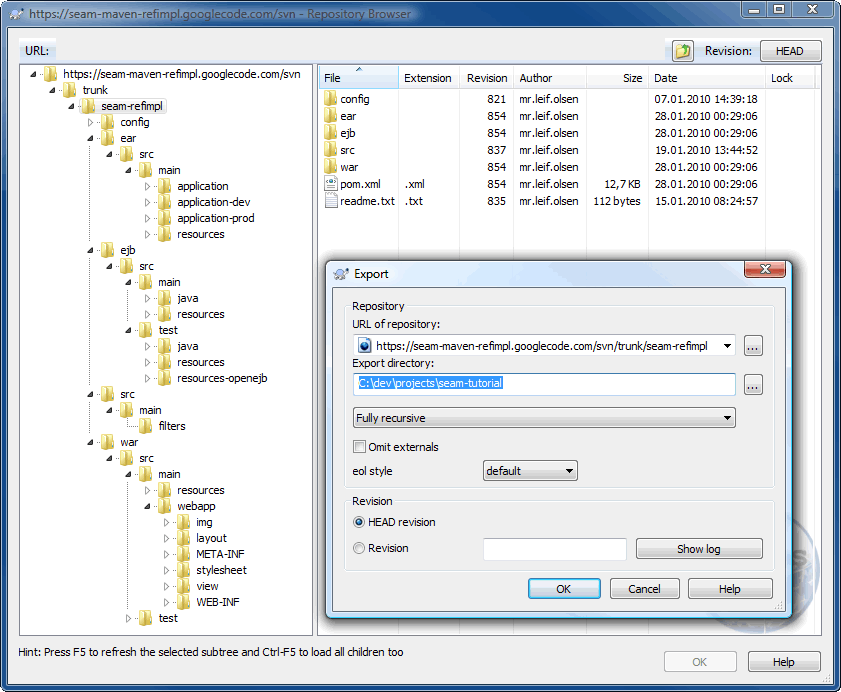
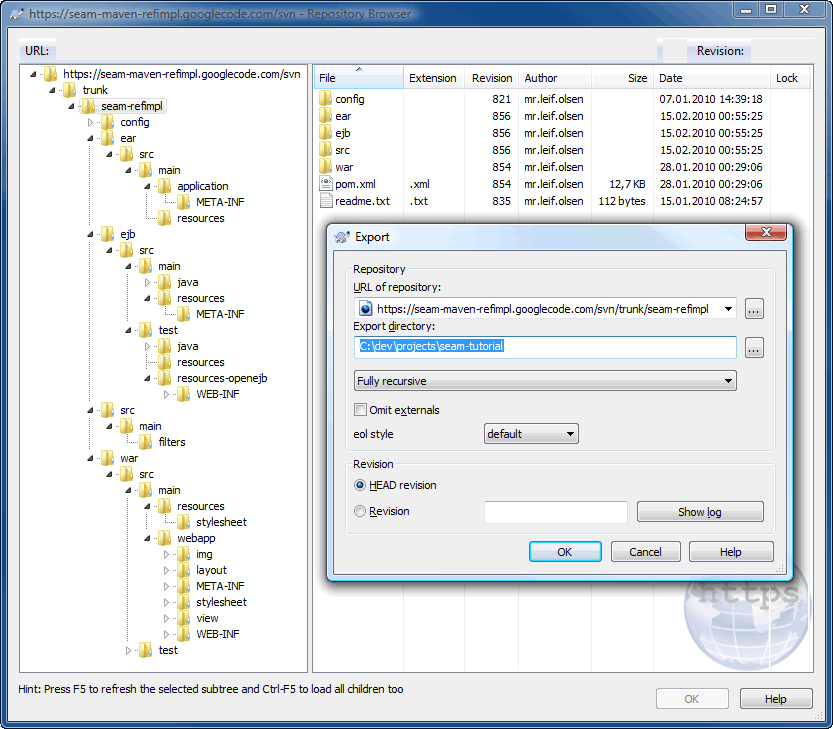
Updating tutorial - in progress...

Changed region(s): [[0.0, 0.0, 0.9988, 1.0], [0.5618, 0.6676, 0.7179, 0.698]]

diff --git a/doc/tutorial/01-gettingstarted.html b/doc/tutorial/01-gettingstarted.html
@@ -190,6 +190,11 @@ running on a JBoss Application Server (JBoss-4.2.3.AS or Jboss-5.1.x.AS).</p>
   Use the <code>seam-refimpl</code> Project as a Template for Your Own Project</a>
 </h2>
 <div id="export-template">
+<p>The Seam Refimpl project is a standard Maven multimodule project for Seam using EJB and JSF 
+that is archived in an ear-archive. A parent project pom will manage the EAR, EJB and WAR 
+modules.</p>
+
+<h3>Export from svn</h3>
 <p>This section explains how to use the <strong>seam-refimpl</strong> project as a template for your
 own project.</p>
 
@@ -211,19 +216,29 @@ own project.</p>
     </ul>
     <img src="img/tortoise-export.png" style="width:800px; display:block; margin-top:1em; margin-bottom:1em;" />
   </li>
-  <li><a name="modfy-the-poms">Modify the poms:</a>
+  <li><a name="modfy-the-poms">Modify the poms by changing text emphasized in <font color="blue">blue</font>:</a>
     <ul>
     <li>
     The parent pom:
     <pre>
 &lt;project
-  .
-  &lt;groupId&gt;<font color="blue">no.company.seam</font>&lt;/groupId&gt;
+  xmlns=&quot;http://maven.apache.org/POM/4.0.0&quot;
+  xmlns:xsi=&quot;http://www.w3.org/2001/XMLSchema-instance&quot;
+  xsi:schemaLocation=&quot;http://maven.apache.org/POM/4.0.0 http://maven.apache.org/maven-v4_0_0.xsd&quot;&gt;
+
+  &lt;modelVersion&gt;4.0.0&lt;/modelVersion&gt;
+  &lt;parent&gt;
+    &lt;groupId&gt;no.knowit.seam&lt;/groupId&gt;
+    &lt;artifactId&gt;root&lt;/artifactId&gt;
+    &lt;version&gt;2.2.0-SNAPSHOT&lt;/version&gt;
+  &lt;/parent&gt;
+  
+  &lt;groupId&gt;<font color="blue">com.company.seam</font>&lt;/groupId&gt;
   &lt;artifactId&gt;<font color="blue">seam-tutorial</font>&lt;/artifactId&gt;
   &lt;version&gt;<font color="blue">0.1-SNAPSHOT</font>&lt;/version&gt;
   &lt;name&gt;${project.artifactId} : ${project.version}&lt;/name&gt;
   &lt;description&gt;<font color="blue">The Seam Tutorial parent pom</font>&lt;/description&gt;
-  &lt;packaging&gt;pom&amp;lt;/packaging&gt;
+  &lt;packaging&gt;pom&lt;/packaging&gt;
   &lt;modules&gt;
     &lt;module&gt;ejb&lt;/module&gt;
     &lt;module&gt;war&lt;/module&gt;
@@ -235,8 +250,8 @@ own project.</p>
     &lt;app.display.name&gt;<font color="blue">Seam Tutorial</font>&lt;/app.display.name&gt;
     &lt;app.description&gt;<font color="blue">The Seam Tutorial uses seam-refimpl as a project template</font>&lt;/app.description&gt;
     &lt;app.distributable&gt;false&lt;/app.distributable&gt;
-    &lt;app.jndi.pattern&gt;${app.context}-ear/#{ejbName}/local&lt;/app.jndi.pattern&gt;
-    &lt;app.jndi.pattern.test&gt;/#{ejbName}/Local&lt;/app.jndi.pattern.test&gt;
+    &lt;app.jndi.pattern&gt;${app.context}-ear/#{ejbName}/local&lt;/app.jndi.pattern&gt; &lt;!-- JBoss JNDI Pattern --&gt;
+    &lt;app.jndi.pattern.test&gt;/#{ejbName}/Local&lt;/app.jndi.pattern.test&gt;         &lt;!-- OpenEJB JNDI Pattern --&gt;
     &lt;!-- 
       Properties for production are located in src/main/filters/filter-prod.properties
       Properties to be modified by developer are located in src/main/filters/filter-dev.properties
@@ -254,7 +269,7 @@ own project.</p>
 &lt;project
   .
   &lt;parent&gt;
-    &lt;groupId&gt;<font color="blue">no.company.seam</font>&lt;/groupId&gt;
+    &lt;groupId&gt;<font color="blue">com.company.seam</font>&lt;/groupId&gt;
     &lt;artifactId&gt;<font color="blue">seam-tutorial</font>&lt;/artifactId&gt;
     &lt;version&gt;<font color="blue">0.1-SNAPSHOT</font>&lt;/version&gt;
     &lt;relativePath&gt;../pom.xml&lt;/relativePath&gt;
@@ -274,7 +289,7 @@ own project.</p>
 &lt;project
   .
   &lt;parent&gt;
-    &lt;groupId&gt;<font color="blue">no.company.seam</font>&lt;/groupId&gt;
+    &lt;groupId&gt;<font color="blue">com.company.seam</font>&lt;/groupId&gt;
     &lt;artifactId&gt;<font color="blue">seam-tutorial</font>&lt;/artifactId&gt;
     &lt;version&gt;<font color="blue">0.1-SNAPSHOT</font>&lt;/version&gt;
     &lt;relativePath&gt;../pom.xml&lt;/relativePath&gt;
@@ -294,7 +309,7 @@ own project.</p>
 &lt;project
   .
   &lt;parent&gt;
-    &lt;groupId&gt;<font color="blue">no.company.seam</font>&lt;/groupId&gt;
+    &lt;groupId&gt;<font color="blue">com.company.seam</font>&lt;/groupId&gt;
     &lt;artifactId&gt;<font color="blue">seam-tutorial</font>&lt;/artifactId&gt;
     &lt;version&gt;<font color="blue">0.1-SNAPSHOT</font>&lt;/version&gt;
     &lt;relativePath&gt;../pom.xml&lt;/relativePath&gt;
@@ -311,14 +326,79 @@ own project.</p>
     </ul>
   </li>
   <li>
-    Rename the datasource file <code>ear/src/main/resources/seam-refimpl-ds.xml</code> 
-    to <code>seam-tutorial-ds.xml</code><br/>
-    Tip: Modify the	<code>&lt;app.ds.xml&gt;${app.context}-ds.xml&lt;/app.ds.xml&gt;</code> property
-    if you want to give the datasource file a different name.
+    Rename the datasource file <code>${SEAM_TUTORIAL}/ear/src/main/resources/seam-refimpl-ds.xml</code> 
+    to <code>seam-tutorial-rename-ds.xml</code> (by default the datasource file name starts with the project
+    artifact id).
+    <img src="img/seam-tutorial-rename-ds-xml.png" style="width:400px; display:block; margin-top:1em; margin-bottom:1em;" />
   </li>
   <li>
-    <a href="#install-and-run">Deploy the project "out of the box" to verify that everyting works</a>
+    Run <code>mvn clean install</code> to verify that the project builds.
+    <img src="img/seam-tutorial-clean-install-success.png" style="width:700px; display:block; margin-top:1em; margin-bottom:1em;" />
   </li>
+  </ol>
+
+  <h3>Switch to development profile</h3>
+  <ol>
+  <li>
+<pre>
+This is how you switch to dev mode:
+* Copy the src/main/filters/filter-prod.properties to filter-dev.properties and add the filter-dev.properties file to svn:ignore.
+* Open the filter-dev.properties file and modify property values as needed.
+* The env-prod profile is active by default, so you must open each POM 
+  in the project and set the env-dev profile to active by default.
+* In each pom locate:
+&lt;profile&gt;
+  &lt;id&gt;env-dev&lt;/id&gt;
+  &lt;activation&gt;
+    &lt;property&gt;
+      &lt;name&gt;env&lt;/name&gt;
+      &lt;value&gt;dev&lt;/value&gt;
+    &lt;/property&gt;
+  &lt;/activation&gt;
+  &lt;properties&gt;
+    &lt;env&gt;dev&lt;/env&gt;
+  &lt;/properties&gt;
+&lt;/profile&gt;
+
+&lt;profile&gt;
+  &lt;id&gt;env-prod&lt;/id&gt;
+  &lt;activation&gt;
+    &lt;activeByDefault&gt;true&lt;/activeByDefault&gt;
+  &lt;/activation&gt;
+  &lt;properties&gt;
+    &lt;env&gt;prod&lt;/env&gt;
+  &lt;/properties&gt;
+&lt;/profile&gt;
+
+* Move the activeByDefault tag to the env-dev profile:
+&lt;profile&gt;
+  &lt;id&gt;env-dev&lt;/id&gt;
+  &lt;activation&gt;
+    &lt;property&gt;
+      &lt;name&gt;env&lt;/name&gt;
+      &lt;value&gt;dev&lt;/value&gt;
+    &lt;/property&gt;
+    &lt;activeByDefault&gt;true&lt;/activeByDefault&gt;
+  &lt;/activation&gt;
+  &lt;properties&gt;
+    &lt;env&gt;dev&lt;/env&gt;
+  &lt;/properties&gt;
+&lt;/profile&gt;
+
+&lt;profile&gt;
+  &lt;id&gt;env-prod&lt;/id&gt;
+  &lt;properties&gt;
+    &lt;env&gt;prod&lt;/env&gt;
+  &lt;/properties&gt;
+&lt;/profile&gt;
+</pre>
+  </li>
+  </ol>
+  
+  
+  
+  <h1>NOTE: The rest of the tutorial is temporary out of sync with the project!</h1>
+  <ol>
   <li>
     <a href="#switch-to-development-mode">Switch to development mode</a>
   </li>
@@ -472,13 +552,7 @@ own project.</p>
 
 
 
-<h3>Maven Project Structure</h3>
-<p>The Seam Refimpl project is a standard Maven multimodule project for Seam using EJB and JSF 
-that is archived in an ear-archive. A parent project pom will manage the EAR, EJB and WAR 
-modules. <a href="http://blog.xebia.com/">Xebia Labs</a> has an excellent blog that explains the 
-Maven project structure for an enterprise application project using Seam, 
-<a href="http://blog.xebia.com/2009/06/06/configuring-a-seam-ejb-project-for-development-with-maven-and-jboss-tools/">
-Configuring a Seam EJB project for development with Maven and JBoss Tools</a>.</p>
+
 
 
 
@@ -812,6 +886,16 @@ and add it to <strong>svn ignore</strong>!
     <a href="http://sujitpal.blogspot.com/2006/07/maven2-step-by-step.html">
       Maven2, Step by Step
     </a>
+  </li>
+  <li>
+    <a href="http://sujitpal.blogspot.com/2006/10/maven2-multi-environment-filter-setup.html">
+      A Maven2 multi-environment filter setup
+    </a>
+  </li>
+  <li>
+    <a href="http://blog.xebia.com/2009/06/06/configuring-a-seam-ejb-project-for-development-with-maven-and-jboss-tools/">
+      Configuring a Seam EJB project for development with Maven and JBoss Tools
+    </a>  
   </li>
 </ul>
 
